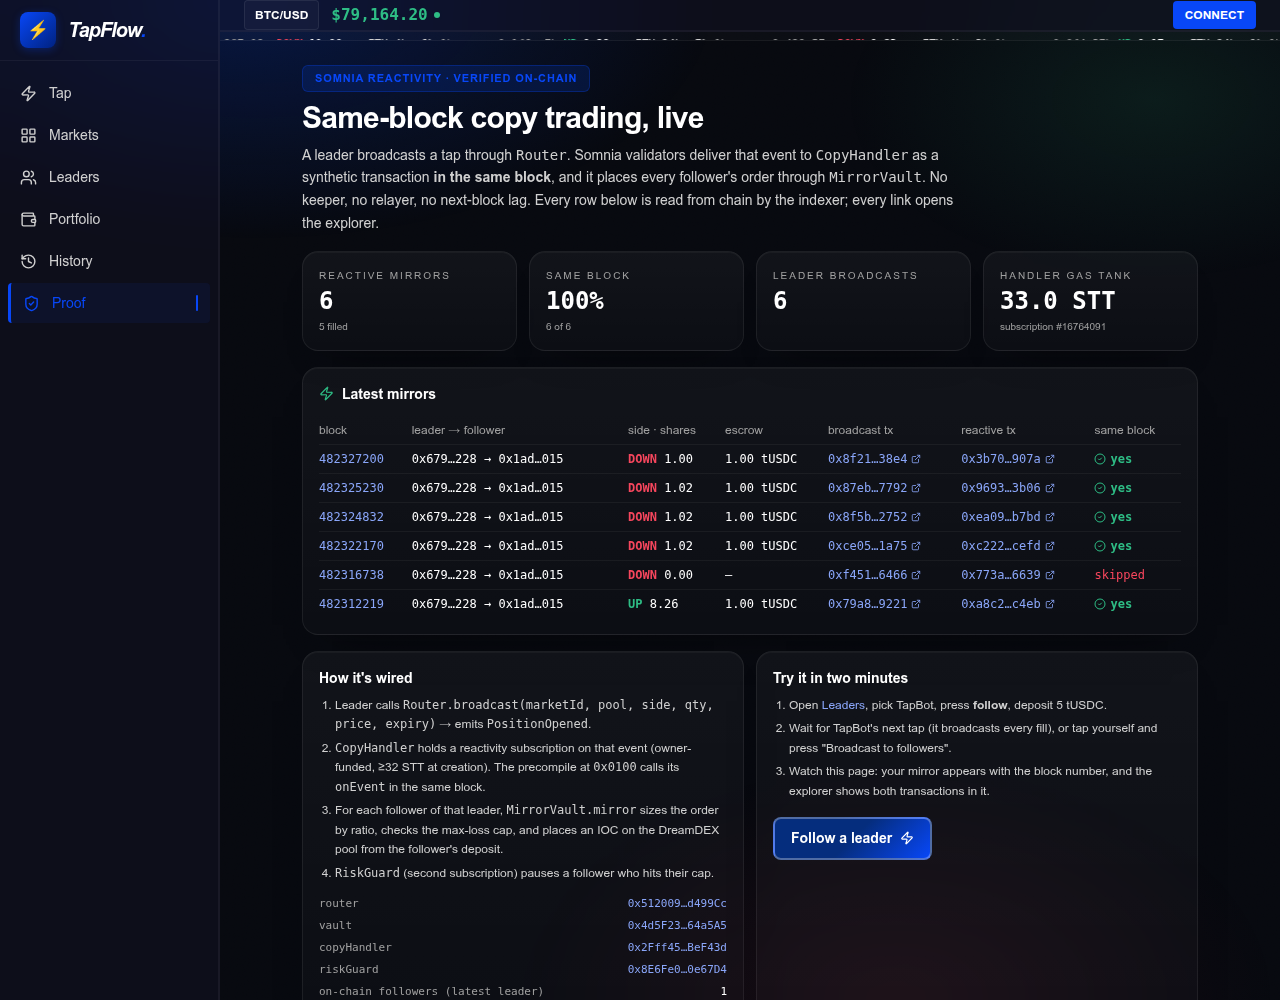
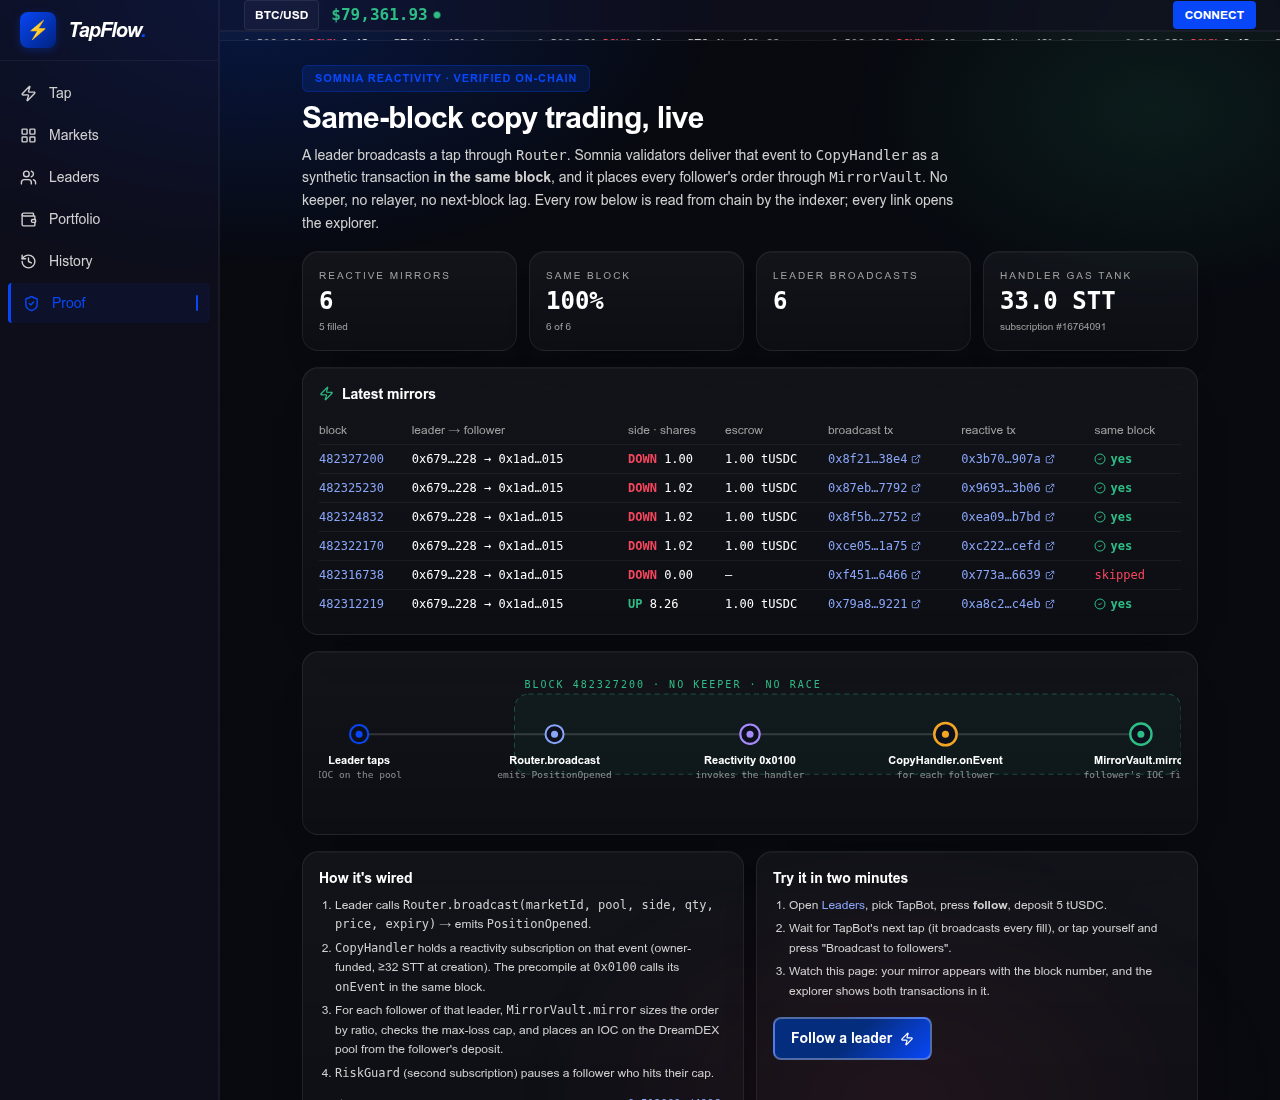
docs: submission text + proof screenshot with the diagram

diff --git a/docs/SUBMISSION.md b/docs/SUBMISSION.md
@@ -16,7 +16,7 @@
 
 **Description (one paragraph)**
 
-TapFlow turns every live DreamDEX Event Contract into a one-tap UP/DOWN call and makes the best tappers followable. Each window is a real binary market on Somnia Shannon; a tap is a real immediate-or-cancel order on the on-chain book, sized over the live order book with the venue's own tick/lot grid. After one funding popup, a capped session wallet signs every tap silently. The part nobody else shows: a leader's tap is broadcast through a Router contract, and a `SomniaEventHandler` subscribed to that event places every follower's proportional order **in the same block** through a capped MirrorVault — no keeper, no relayer. We proved it on-chain for both UP and DOWN (blocks 482312219 and 482322170), with a second reactive handler that pauses a follower at their max-loss. A fills indexer builds a PnL/streak leaderboard from chain, a momentum agent ("TapBot") taps as a public leader with a one-line rationale per order, and a Telegram bot exposes the same flow. Everything in the demo path is a real transaction; a 17-item SDK and docs feedback report is included.
+TapFlow turns every live DreamDEX Event Contract into a one-tap UP/DOWN call and makes the best tappers followable. Each window is a real binary market on Somnia Shannon; a tap is a real immediate-or-cancel order on the on-chain book, sized over the live order book with the venue's own tick/lot grid. After one funding popup, a capped session wallet signs every tap silently. The part nobody else shows: a leader's tap is broadcast through a Router contract, and a `SomniaEventHandler` subscribed to that event places every follower's proportional order **in the same block** through a capped MirrorVault — no keeper, no relayer. We proved it on-chain for both UP and DOWN (blocks 482312219 and 482322170), with a second reactive handler that pauses a follower at their max-loss. A fills indexer builds a PnL/streak leaderboard from chain, a momentum agent ("TapBot") taps as a public leader — 7 real taps, 5 on-chain copies — behind a risk gate that publishes its holds with reason codes, auto-claims its winnings, and trades the shortest live cadence; followers see their vault, withdraw or unfollow in one tap, and get a toast the moment a mirror lands. Any Somnia dapp can embed a live tap card in an iframe. A Telegram bot exposes the same flow. Everything in the demo path is a real transaction; a 17-item SDK and docs feedback report is included.
 
 **What's real (judge checklist)**
 - 4 contracts deployed on Shannon, reactivity subscription 16764091 live, 11/11 Foundry tests.
